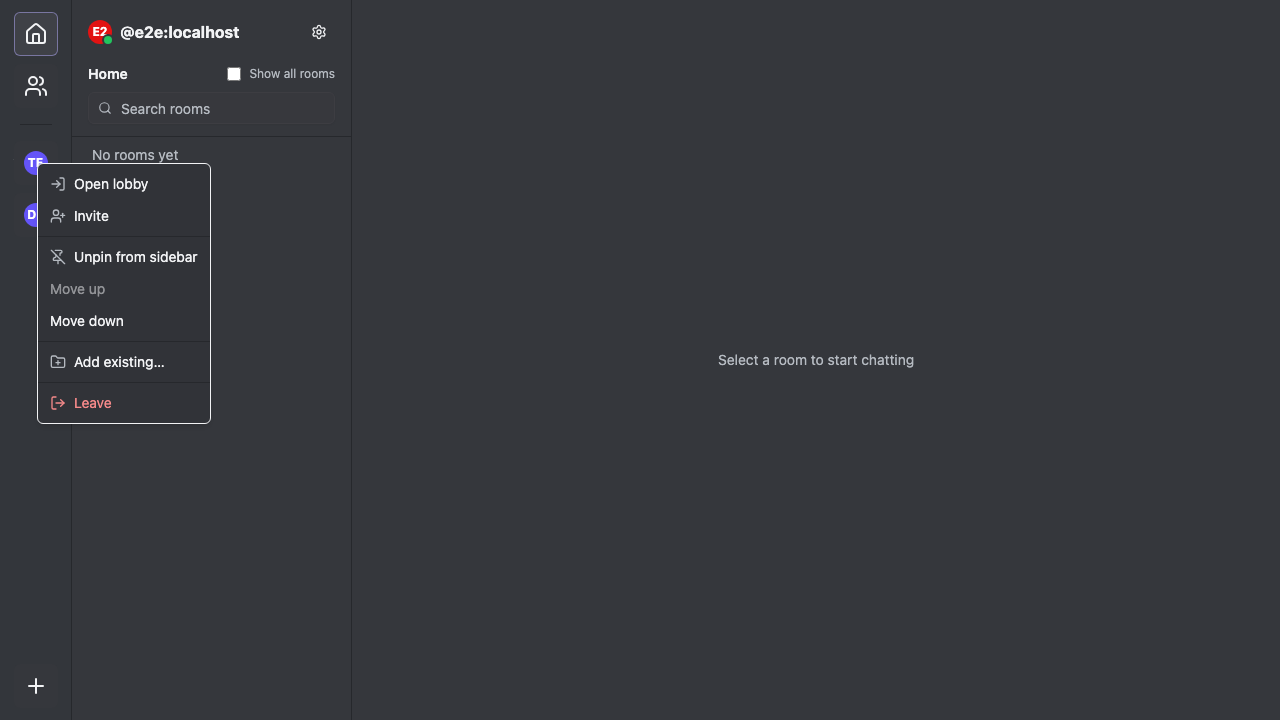
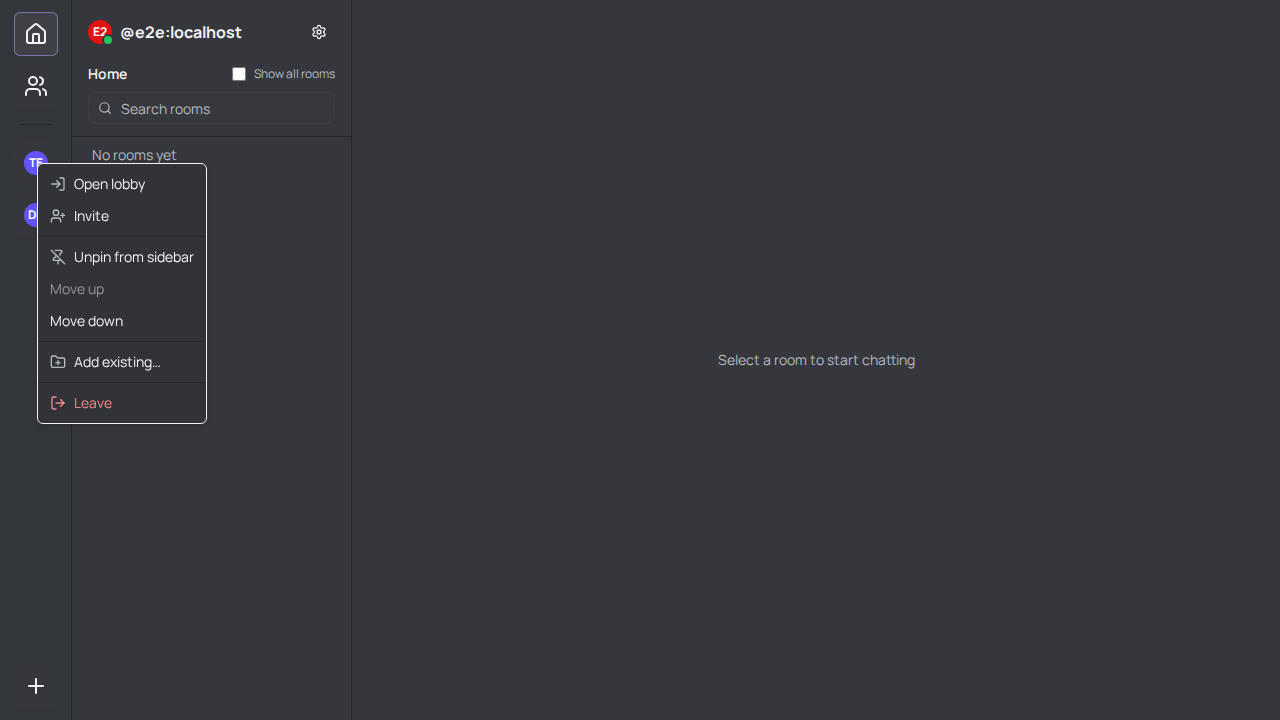
fix(rooms): fix moveSpaceInOrder sparseness, sync races, and spec docs breakage
- moveSpaceInOrder no longer re-materializes the entire visible space list
  into prefs.order on every move — it now only makes the moved pair explicit,
  keeping everything else sparse so a newly joined space still interleaves
  naturally instead of always appending after every space the user has ever
  seen.
- useSpaceRailPrefsSync: a local edit made while the initial account-data
  read is still in flight no longer gets silently overwritten by the (now
  stale) remote value once that read resolves. Account-data writes are also
  now chained through a queue instead of fired concurrently, since account
  data has no server-side ordering guarantee and rapid edits (e.g. repeated
  Move up/down clicks) could previously let an older write arrive after a
  newer one and silently revert it.
- Un-fold Spec 63's frontmatter title back onto one YAML line — the folded
  two-line form silently truncated the title in the generated roadmap, since
  the roadmap generator's frontmatter reader isn't YAML-aware.
- Replace the locally-captured (macOS) sidebar-management.png feature-gallery
  screenshot with the one Playwright actually renders in CI (downloaded from
  the sentry-e2e-snapshots artifact) — cross-platform font rendering
  differences pushed the local capture past the pixel-diff threshold.

diff --git a/src/features/rooms/useSpaceRailPrefsSync.test.tsx b/src/features/rooms/useSpaceRailPrefsSync.test.tsx
@@ -160,4 +160,85 @@ describe("useSpaceRailPrefsSync", () => {
       }),
     );
   });
+
+  it("keeps a local edit made while the initial read is still in flight", async () => {
+    let resolveRead: (value: unknown) => void = () => {};
+    getAccountData.mockReturnValueOnce(
+      new Promise((resolve) => {
+        resolveRead = resolve;
+      }),
+    );
+
+    const { result } = renderWithStore();
+
+    // The user pins/unpins before the account-data read has resolved.
+    act(() => {
+      result.current[1]({ order: [], unpinned: ["!local-edit:localhost"] });
+    });
+
+    act(() => {
+      resolveRead({ order: [], unpinned: ["!stale-remote:localhost"] });
+    });
+    await waitFor(() => expect(getAccountData).toHaveBeenCalled());
+
+    // The remote value must not clobber the edit the user already made.
+    expect(result.current[0]).toEqual({ order: [], unpinned: ["!local-edit:localhost"] });
+  });
+
+  it("applies the remote value when no local edit happened during the read", async () => {
+    let resolveRead: (value: unknown) => void = () => {};
+    getAccountData.mockReturnValueOnce(
+      new Promise((resolve) => {
+        resolveRead = resolve;
+      }),
+    );
+
+    const { result } = renderWithStore();
+
+    act(() => {
+      resolveRead({ order: [], unpinned: ["!remote:localhost"] });
+    });
+    await waitFor(() =>
+      expect(result.current[0]).toEqual({ order: [], unpinned: ["!remote:localhost"] }),
+    );
+  });
+
+  it("serializes rapid consecutive writes instead of letting them race", async () => {
+    getAccountData.mockResolvedValue(null);
+    const writeOrder: string[] = [];
+    let resolveFirstWrite: () => void = () => {};
+    setAccountData.mockImplementationOnce(() => {
+      writeOrder.push("first-started");
+      return new Promise<void>((resolve) => {
+        resolveFirstWrite = () => {
+          writeOrder.push("first-resolved");
+          resolve();
+        };
+      });
+    });
+    setAccountData.mockImplementationOnce(() => {
+      writeOrder.push("second-started");
+      return Promise.resolve();
+    });
+
+    const { result } = renderWithStore();
+    await waitFor(() => expect(getAccountData).toHaveBeenCalled());
+
+    act(() => {
+      result.current[1]({ order: [], unpinned: ["!first:localhost"] });
+    });
+    await waitFor(() => expect(setAccountData).toHaveBeenCalledTimes(1));
+
+    act(() => {
+      result.current[1]({ order: [], unpinned: ["!second:localhost"] });
+    });
+    // The second write must not start until the first has settled — proves
+    // the requests are chained, not fired concurrently where an
+    // out-of-order server arrival could let the first overwrite the second.
+    expect(setAccountData).toHaveBeenCalledTimes(1);
+
+    resolveFirstWrite();
+    await waitFor(() => expect(setAccountData).toHaveBeenCalledTimes(2));
+    expect(writeOrder).toEqual(["first-started", "first-resolved", "second-started"]);
+  });
 });

diff --git a/src/features/rooms/spaceRailPrefs.test.ts b/src/features/rooms/spaceRailPrefs.test.ts
@@ -1,0 +1,62 @@
+import { describe, expect, it } from "vitest";
+import { moveSpaceInOrder, orderSpaceIds } from "./spaceRailPrefs";
+
+describe("orderSpaceIds", () => {
+  it("sorts explicitly ordered ids first, natural-order ids after", () => {
+    expect(orderSpaceIds(["a", "b", "c"], ["c", "a"])).toEqual(["c", "a", "b"]);
+  });
+
+  it("preserves natural order among ids with no explicit rank", () => {
+    expect(orderSpaceIds(["a", "b", "c"], [])).toEqual(["a", "b", "c"]);
+  });
+});
+
+describe("moveSpaceInOrder", () => {
+  it("returns the same order when the space isn't in the visible list", () => {
+    expect(moveSpaceInOrder(["a", "b"], [], "z", "up")).toEqual([]);
+  });
+
+  it("returns the same order when already at the boundary", () => {
+    expect(moveSpaceInOrder(["a", "b"], [], "a", "up")).toEqual([]);
+    expect(moveSpaceInOrder(["a", "b"], [], "b", "down")).toEqual([]);
+  });
+
+  it("moves an unordered space above its unordered neighbor without baking in the rest", () => {
+    const result = moveSpaceInOrder(["a", "b", "c"], [], "b", "up");
+    // Only the two swapped ids become explicit — "c" stays absent, still
+    // falling back to natural order for anything not touched by this move.
+    expect(result).toEqual(["b", "a"]);
+  });
+
+  it("moves an unordered space below its unordered neighbor without baking in the rest", () => {
+    const result = moveSpaceInOrder(["a", "b", "c"], [], "a", "down");
+    expect(result).toEqual(["b", "a"]);
+  });
+
+  it("keeps unrelated pre-existing explicit entries untouched", () => {
+    // "d" is already pinned to the top by a prior move; moving "b" past "a"
+    // must not disturb "d"'s position or drag in "c".
+    const result = moveSpaceInOrder(["a", "b", "c", "d"], ["d"], "b", "up");
+    expect(result).toEqual(["d", "b", "a"]);
+  });
+
+  it("repeated moves stay sparse rather than re-materializing the full list", () => {
+    let order: string[] = [];
+    order = moveSpaceInOrder(["a", "b", "c", "d", "e"], order, "b", "up");
+    order = moveSpaceInOrder(["a", "b", "c", "d", "e"], order, "d", "up");
+    // Two moves touching at most 4 distinct ids should never balloon into
+    // all 5 — "e" was never touched and must stay absent (natural order).
+    expect(order).not.toContain("e");
+    expect(new Set(order).size).toBeLessThanOrEqual(4);
+  });
+
+  it("a newly joined space still interleaves naturally after an earlier move", () => {
+    // Simulates: user reorders b above a while only a/b/c exist, then a new
+    // space "d" joins. "d" was never explicitly ordered, so it must still
+    // fall back to its natural (join-order) position relative to "c" rather
+    // than being forced to the very end behind every previously-seen space.
+    const afterFirstMove = moveSpaceInOrder(["a", "b", "c"], [], "b", "up");
+    const visibleWithNewSpace = orderSpaceIds(["a", "b", "c", "d"], afterFirstMove);
+    expect(visibleWithNewSpace).toEqual(["b", "a", "c", "d"]);
+  });
+});

diff --git a/src/features/rooms/useSpaceRailPrefsSync.ts b/src/features/rooms/useSpaceRailPrefsSync.ts
@@ -1,5 +1,5 @@
 import { useAtom } from "jotai";
-import { useEffect, useRef } from "react";
+import { useCallback, useEffect, useRef } from "react";
 import { getAccountData, setAccountData } from "@/lib/matrix";
 import {
   isSpaceRailPrefs,
@@ -7,6 +7,10 @@ import {
   spaceRailPrefsAtomFamily,
   type SpaceRailPrefs,
 } from "./spaceRailPrefs";
+
+type SetSpaceRailPrefs = (
+  update: SpaceRailPrefs | ((prev: SpaceRailPrefs) => SpaceRailPrefs),
+) => void;
 
 /**
  * Layers Spec 63's cross-device account-data sync on top of the local-storage
@@ -18,11 +22,32 @@ import {
  * direction is deliberately "remote wins on load" rather than merging — Spec
  * 63's own account-data structure has no per-field timestamps to merge by,
  * and a full clobber matches how `SpaceRailPrefs` is already read/written as
- * one opaque blob everywhere else in this feature.
+ * one opaque blob everywhere else in this feature — *unless* the caller
+ * already made a local edit while the read was still in flight, in which
+ * case that edit wins (see `dirtySinceLoadStartRef` below).
  */
 export function useSpaceRailPrefsSync(userId: string) {
-  const [prefs, setPrefs] = useAtom(spaceRailPrefsAtomFamily(userId));
+  const [prefs, setPrefsAtom] = useAtom(spaceRailPrefsAtomFamily(userId));
   const loadedRef = useRef(false);
+  // Set only by the public `setPrefs` below (a genuine caller-driven edit),
+  // never by this hook's own remote-load `setPrefsAtom` call — so the load
+  // effect can tell "the user already changed something while I was
+  // fetching" apart from "nothing happened yet" and skip clobbering it.
+  const dirtySinceLoadStartRef = useRef(false);
+  // Chains every account-data write behind the previous one's settlement.
+  // Account data has no server-side ordering guarantee across concurrent
+  // requests (it's a plain last-arrival-wins PUT), so firing one request per
+  // rapid local change (e.g. clicking Move up/down repeatedly) let an older
+  // request that happened to arrive later silently overwrite a newer one.
+  const writeQueueRef = useRef<Promise<void>>(Promise.resolve());
+
+  const setPrefs = useCallback<SetSpaceRailPrefs>(
+    (update) => {
+      dirtySinceLoadStartRef.current = true;
+      setPrefsAtom(update);
+    },
+    [setPrefsAtom],
+  );
 
   useEffect(() => {
     // Re-arms on every account switch — a different `userId` means a
@@ -30,12 +55,13 @@ export function useSpaceRailPrefsSync(userId: string) {
     // local cache the mirror effect below must not write back to account
     // data until *this* account's own read has resolved.
     loadedRef.current = false;
+    dirtySinceLoadStartRef.current = false;
     let cancelled = false;
     getAccountData(SPACE_RAIL_PREFS_ACCOUNT_DATA_TYPE)
       .then((remote) => {
         if (cancelled) return;
-        if (isSpaceRailPrefs(remote)) {
-          setPrefs(remote);
+        if (isSpaceRailPrefs(remote) && !dirtySinceLoadStartRef.current) {
+          setPrefsAtom(remote);
         }
       })
       .catch(() => {
@@ -48,7 +74,7 @@ export function useSpaceRailPrefsSync(userId: string) {
     return () => {
       cancelled = true;
     };
-    // `setPrefs` is a stable jotai setter; re-running only on `userId`
+    // `setPrefsAtom` is a stable jotai setter; re-running only on `userId`
     // change is intentional (see comment above).
     // eslint-disable-next-line react-hooks/exhaustive-deps
   }, [userId]);
@@ -59,11 +85,17 @@ export function useSpaceRailPrefsSync(userId: string) {
     // would race the read and could clobber a remote value with the local
     // (possibly stale, possibly just-reset-to-default) cache.
     if (!loadedRef.current) return;
-    setAccountData(SPACE_RAIL_PREFS_ACCOUNT_DATA_TYPE, prefs satisfies SpaceRailPrefs).catch(() => {
-      // Best-effort — the local write already succeeded via the atom's own
-      // storage effect; a failed remote mirror just means this device's
-      // change won't show up elsewhere until the next successful write.
-    });
+    writeQueueRef.current = writeQueueRef.current.then(() =>
+      setAccountData(SPACE_RAIL_PREFS_ACCOUNT_DATA_TYPE, prefs satisfies SpaceRailPrefs).catch(
+        () => {
+          // Best-effort — the local write already succeeded via the atom's
+          // own storage effect; a failed remote mirror just means this
+          // device's change won't show up elsewhere until the next
+          // successful write. Caught here (not left to reject the queue)
+          // so one failed write doesn't permanently stall every write after it.
+        },
+      ),
+    );
   }, [prefs]);
 
   return [prefs, setPrefs] as const;

diff --git a/src/features/rooms/spaceRailPrefs.ts b/src/features/rooms/spaceRailPrefs.ts
@@ -64,7 +64,26 @@ export function moveSpaceInOrder(
   if (index === -1) return order;
   const swapWith = direction === "up" ? index - 1 : index + 1;
   if (swapWith < 0 || swapWith >= current.length) return order;
-  const next = [...current];
-  [next[index], next[swapWith]] = [next[swapWith], next[index]];
+  const swapId = current[swapWith];
+
+  // Keep the result sparse: only `spaceId` (and, when needed, `swapId`)
+  // become explicit here — every other id already absent from `order` stays
+  // absent, still falling back to natural order. Fully re-materializing the
+  // whole visible list into `order` on every move (the previous behavior)
+  // permanently froze natural ordering for every space the user had ever
+  // seen, so a newly joined space could never again interleave with
+  // never-explicitly-ordered ones — it would just append after all of them.
+  const next = order.filter((id) => id !== spaceId);
+  const swapPosition = next.indexOf(swapId);
+  if (swapPosition === -1) {
+    // `swapId` isn't explicit either. Since every explicit id ranks above
+    // every natural (absent-from-`order`) one, moving `spaceId` past a
+    // natural-order `swapId` requires making both explicit — appended
+    // together at the end of whatever was already explicit, in their new
+    // relative order, so existing explicit entries keep their positions.
+    next.push(...(direction === "up" ? [spaceId, swapId] : [swapId, spaceId]));
+    return next;
+  }
+  next.splice(direction === "up" ? swapPosition : swapPosition + 1, 0, spaceId);
   return next;
 }

diff --git a/docs-site/src/content/docs/specs/day-1/Spec 63 — Sidebar and space management (pin, reorder, context menu, add existing).md b/docs-site/src/content/docs/specs/day-1/Spec 63 — Sidebar and space management (pin, reorder, context menu, add existing).md
@@ -1,6 +1,5 @@
 ---
-title: "Charm 2.0 Spec — Sidebar and space management (pin, reorder, context
-  menu, add existing)"
+title: "Charm 2.0 Spec — Sidebar and space management (pin, reorder, context menu, add existing)"
 type: spec
 project: Charm 2.0
 created: "2026-07-16"